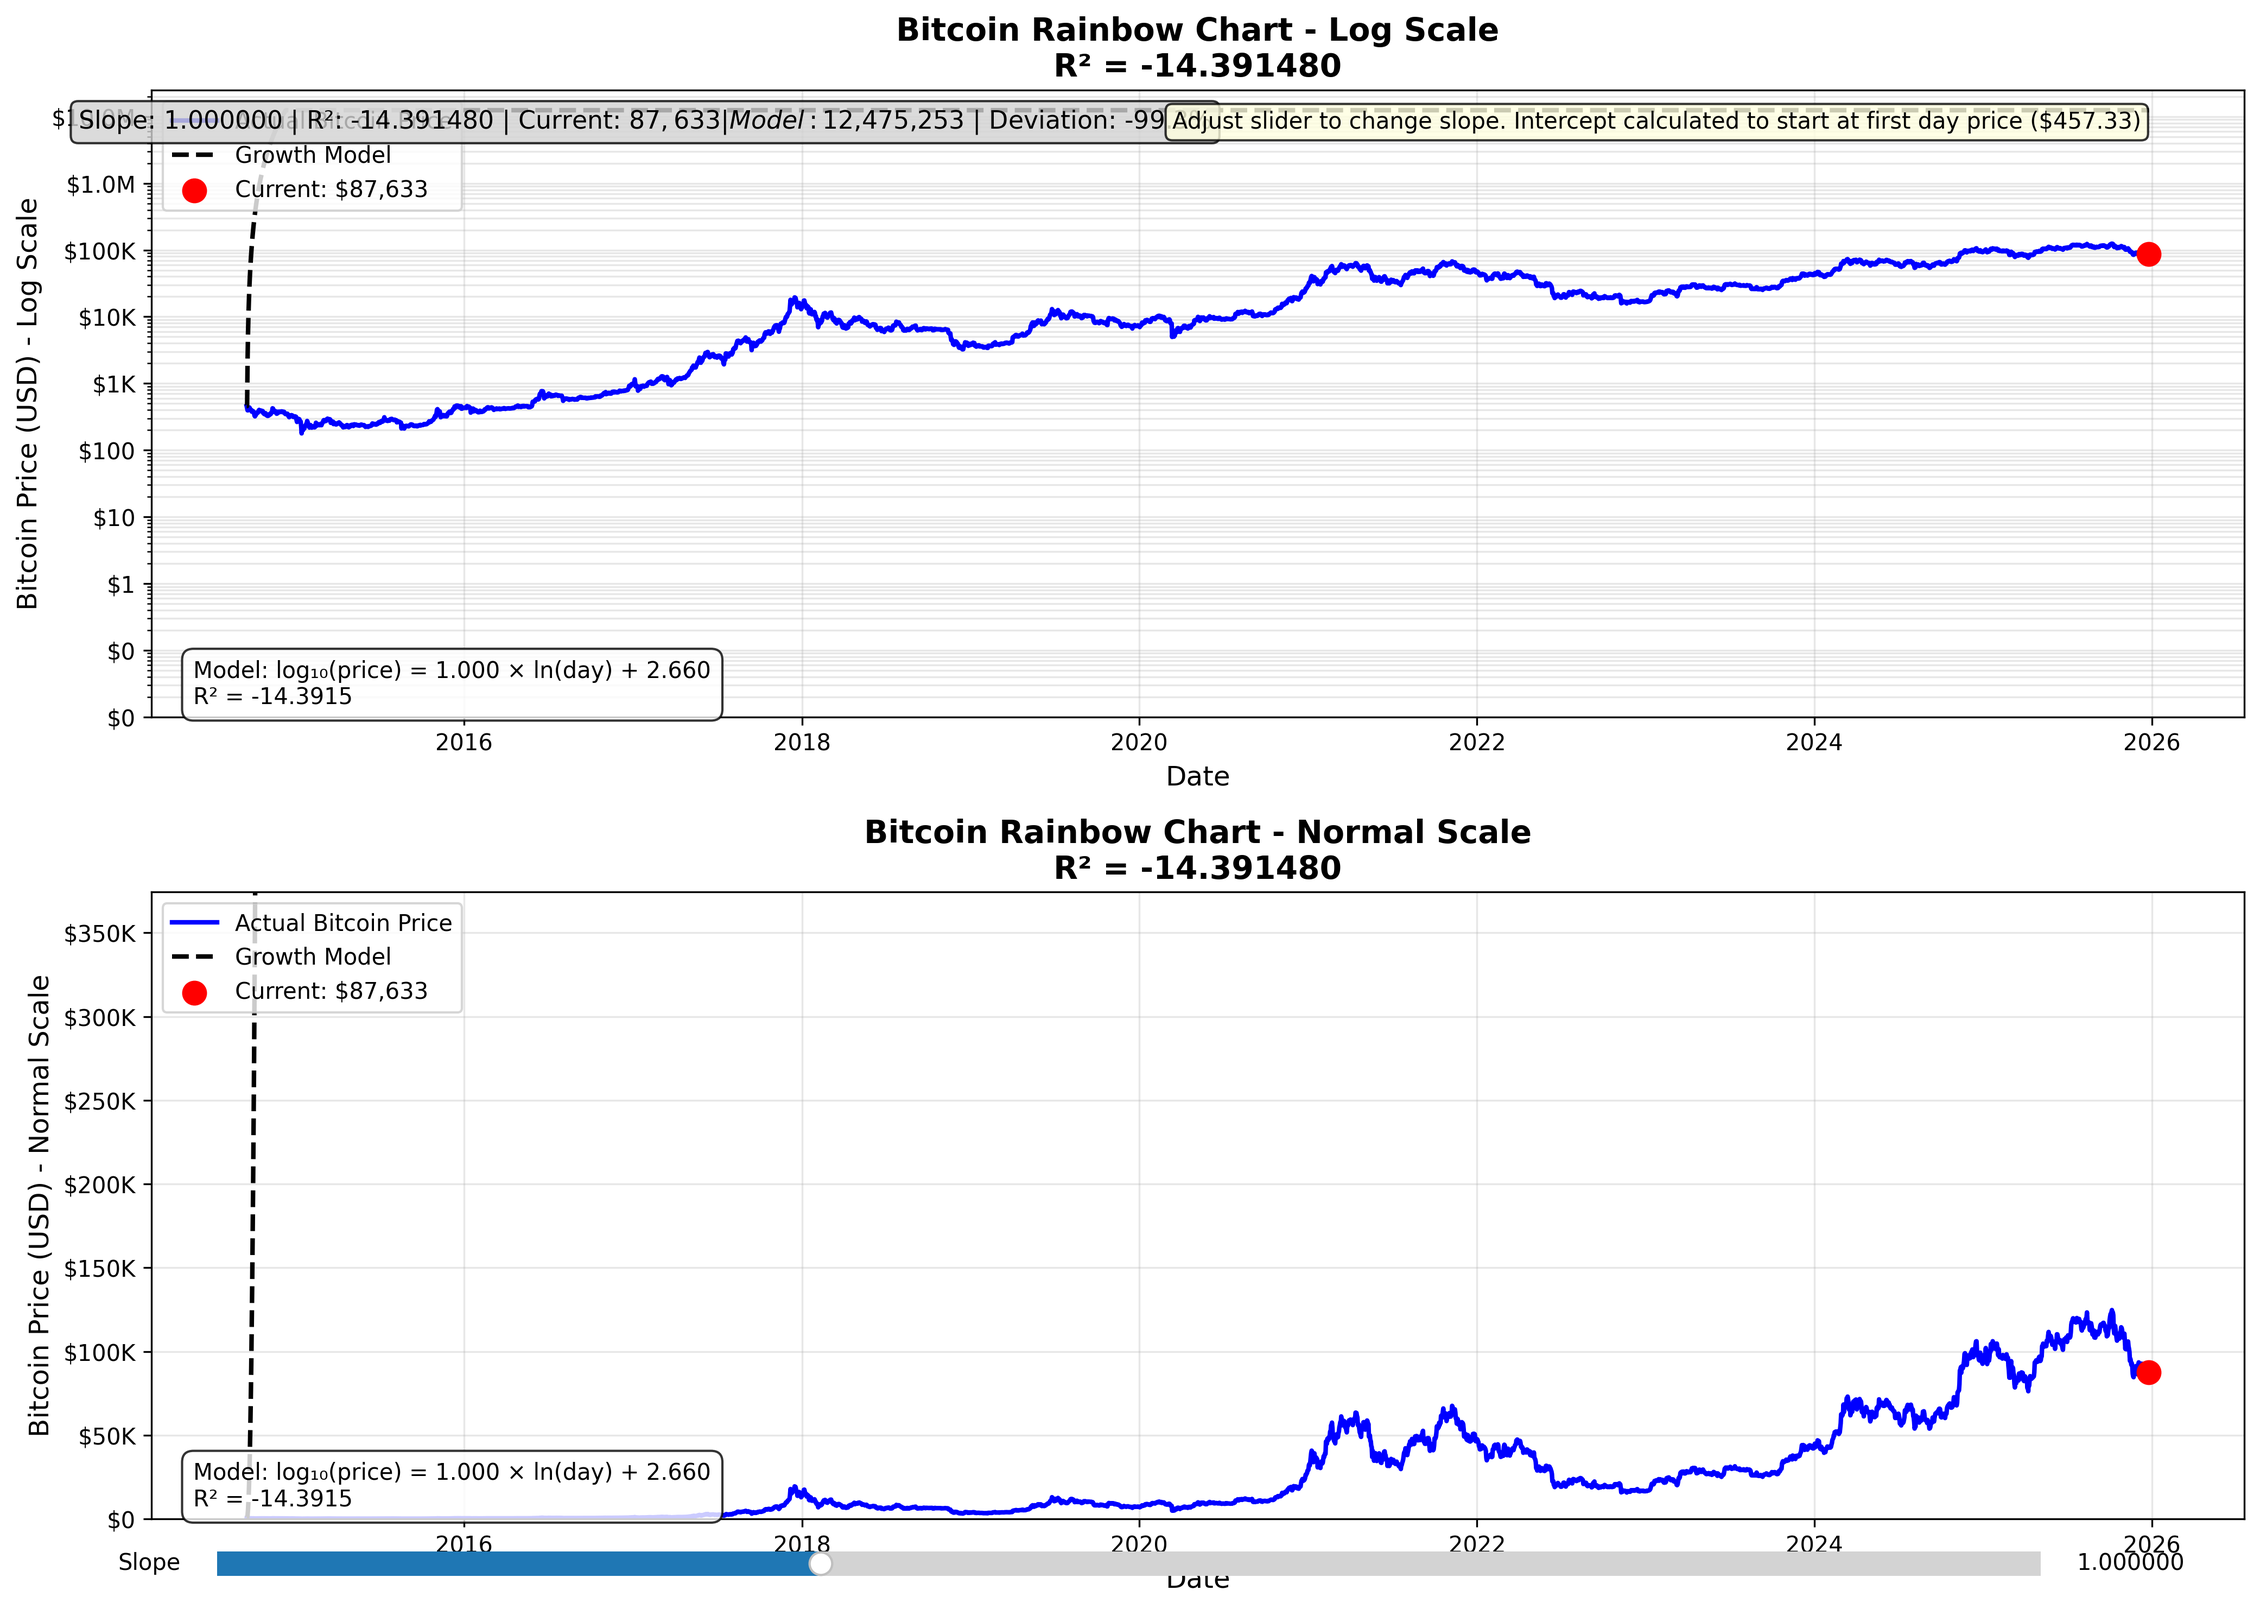
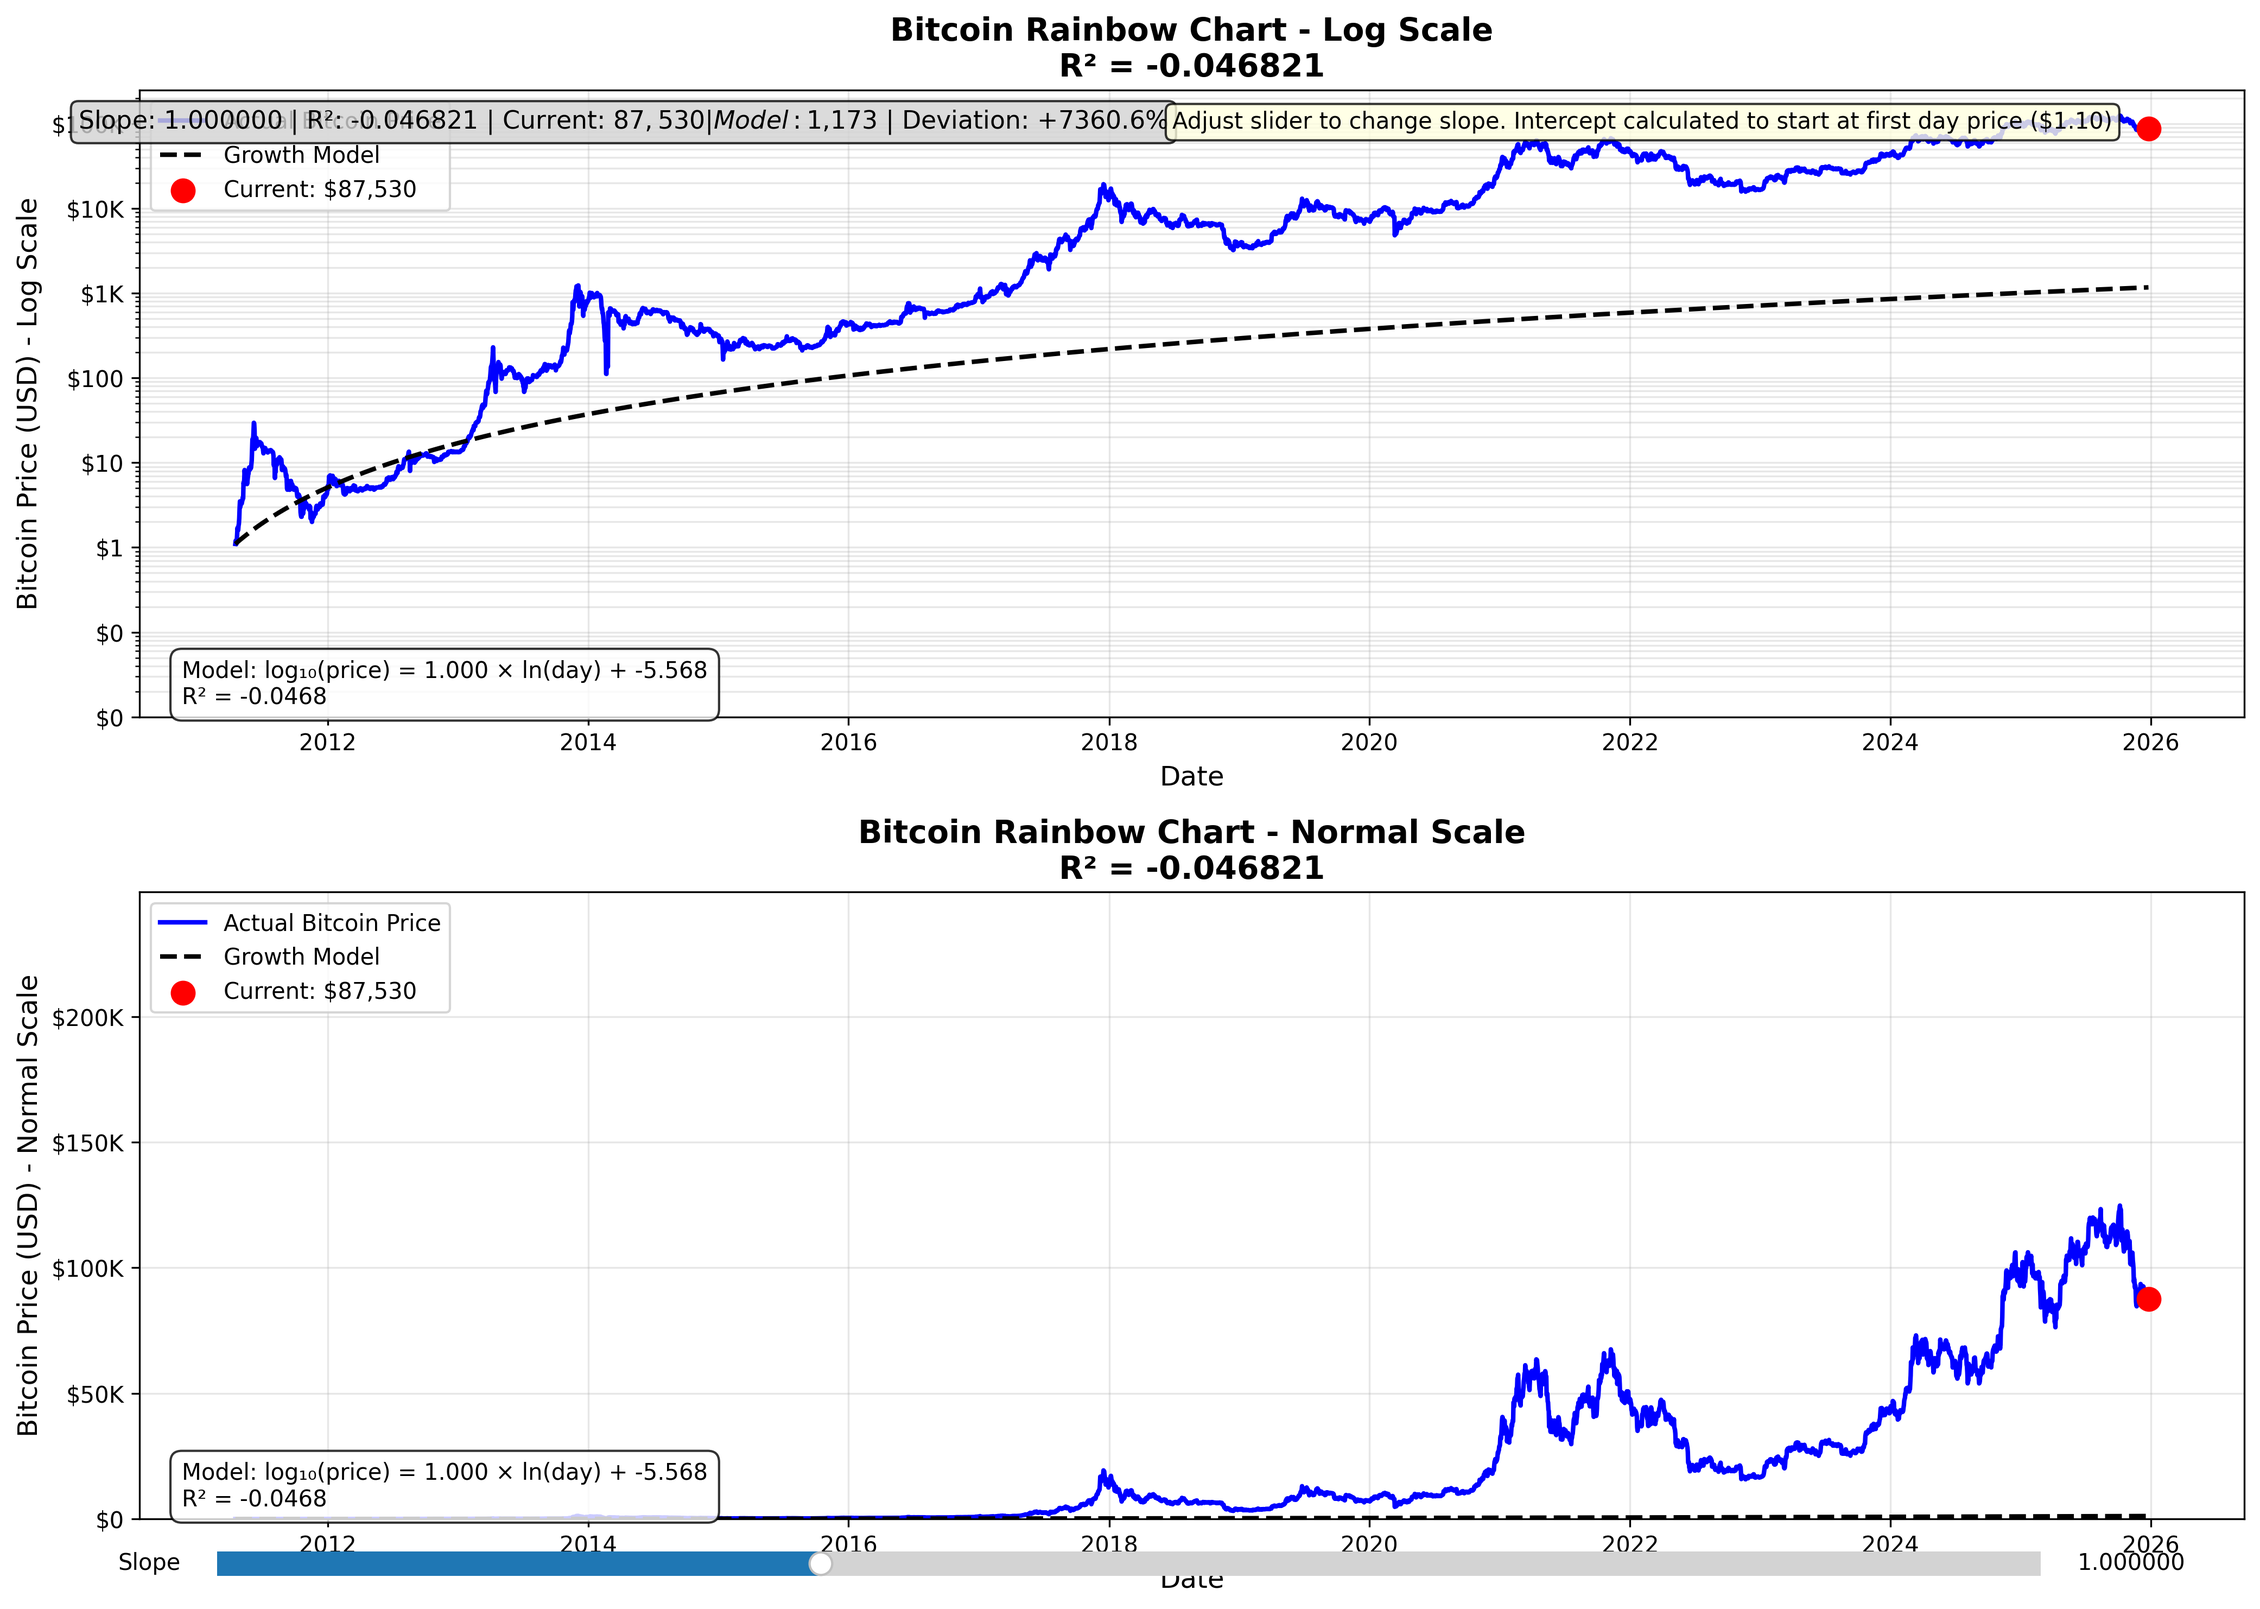
commit

diff --git a/clone/update_prices.py b/clone/update_prices.py
@@ -27,8 +27,16 @@ def get_last_date_from_file(file_path):
     """Get the last date from the existing data file."""
     try:
         df = pd.read_csv(file_path)
-        # Convert the M/D/YYYY format to datetime
-        df['Date'] = pd.to_datetime(df['Date'], format='%m/%d/%Y')
+        # Try to parse date - handle both M/D/YYYY and YYYY-MM-DD formats
+        try:
+            df['Date'] = pd.to_datetime(df['Date'], format='%m/%d/%Y')
+        except ValueError:
+            # If that fails, try YYYY-MM-DD format
+            try:
+                df['Date'] = pd.to_datetime(df['Date'], format='%Y-%m-%d')
+            except ValueError:
+                # Last resort: let pandas auto-detect
+                df['Date'] = pd.to_datetime(df['Date'])
         last_date = df['Date'].max()
         return last_date.strftime('%Y-%m-%d')
     except Exception as e:
@@ -239,7 +247,14 @@ def update_prices():
     
     # Read existing data
     existing_df = pd.read_csv(data_file)
-    existing_df['Date'] = pd.to_datetime(existing_df['Date'], format='%m/%d/%Y')
+    # Try to parse date - handle both M/D/YYYY and YYYY-MM-DD formats
+    try:
+        existing_df['Date'] = pd.to_datetime(existing_df['Date'], format='%m/%d/%Y')
+    except ValueError:
+        try:
+            existing_df['Date'] = pd.to_datetime(existing_df['Date'], format='%Y-%m-%d')
+        except ValueError:
+            existing_df['Date'] = pd.to_datetime(existing_df['Date'])
     
     # Combine existing and new data
     combined_df = pd.concat([existing_df, new_df], ignore_index=True)

diff --git a/clone/config.py b/clone/config.py
@@ -21,7 +21,7 @@ YAHOO_TICKER = "BTC-USD"  # Yahoo Finance ticker symbol (e.g., "BTC-USD", "ETH-U
 # GENESIS_DATE = "2015-07-30"  # Launch/genesis date (YYYY-MM-DD format) - OPTIONAL
 GENESIS_DATE = None  # Set to None to auto-detect from data, or specify a date string
 
-START_DATE = ""  # Analysis start date - when to begin the rainbow chart analysis (YYYY-MM-DD format)
+START_DATE = "2011-04-17"  # Analysis start date - when to begin the rainbow chart analysis (YYYY-MM-DD format)
 # Leave as empty string "" to auto-detect from first date in data file
 # Or specify a date like "2017-05-18" to start analysis from that date
 
@@ -42,7 +42,7 @@ OUTPUT_FOLDER = "Crypto\Bitcoin\We_both_know"
 # ============================================
 # Fixed slope for intercept optimization (adjust after running interactive_rainbow.py)
 # This is typically found by running the interactive rainbow chart first
-FIXED_SLOPE = .22
+FIXED_SLOPE = 1.4783
 
 # ============================================
 # DATA SOURCE

diff --git a/clone/interactive_rainbow.py b/clone/interactive_rainbow.py
@@ -49,8 +49,17 @@ def load_data():
     # Read the data
     df = pd.read_csv(data_file)
     
-    # Convert Date to datetime
-    df['Date'] = pd.to_datetime(df['Date'])
+    # Convert Date to datetime - handle multiple formats
+    try:
+        # Try M/D/YYYY format first (original format)
+        df['Date'] = pd.to_datetime(df['Date'], format='%m/%d/%Y')
+    except (ValueError, TypeError):
+        try:
+            # Try YYYY-MM-DD format
+            df['Date'] = pd.to_datetime(df['Date'], format='%Y-%m-%d')
+        except (ValueError, TypeError):
+            # Last resort: let pandas auto-detect
+            df['Date'] = pd.to_datetime(df['Date'])
     
     # Clean Price column - convert to float
     df['Price'] = df['Price'].astype(float)

diff --git a/clone/optimize_intercept.py b/clone/optimize_intercept.py
@@ -51,8 +51,17 @@ def load_data():
     # Read the data
     df = pd.read_csv(data_file)
     
-    # Convert Date to datetime
-    df['Date'] = pd.to_datetime(df['Date'])
+    # Convert Date to datetime - handle multiple formats
+    try:
+        # Try M/D/YYYY format first (original format)
+        df['Date'] = pd.to_datetime(df['Date'], format='%m/%d/%Y')
+    except (ValueError, TypeError):
+        try:
+            # Try YYYY-MM-DD format
+            df['Date'] = pd.to_datetime(df['Date'], format='%Y-%m-%d')
+        except (ValueError, TypeError):
+            # Last resort: let pandas auto-detect
+            df['Date'] = pd.to_datetime(df['Date'])
     
     # Clean Price column - convert to float
     df['Price'] = df['Price'].astype(float)
